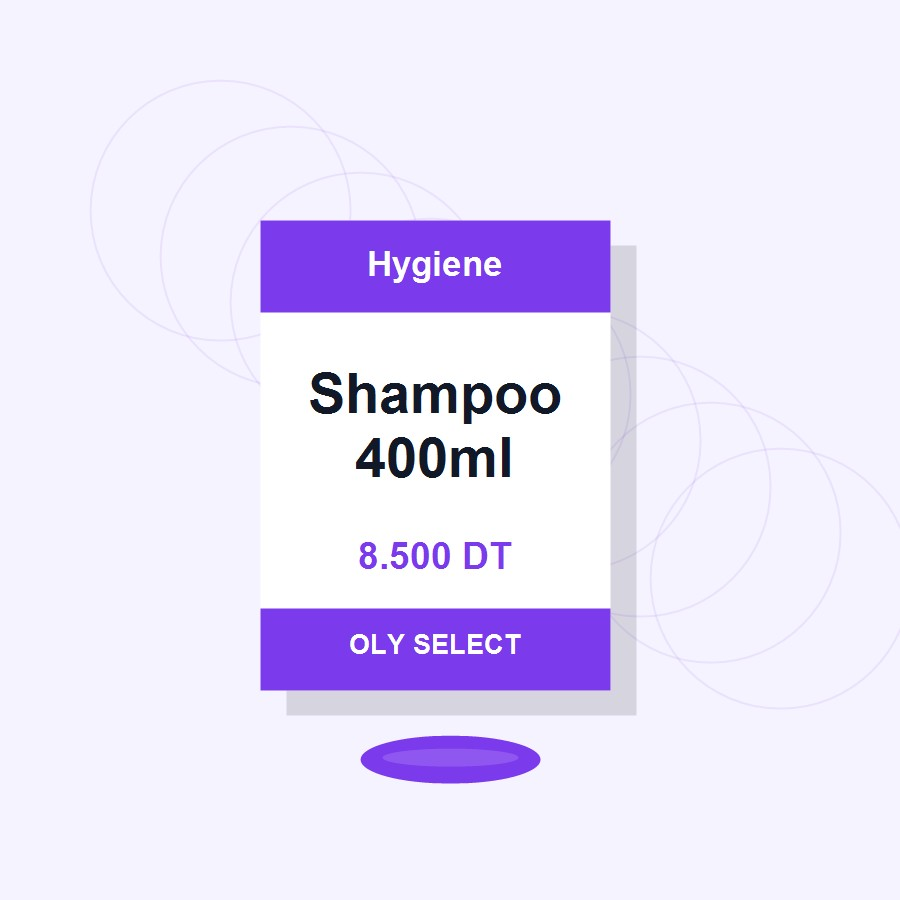
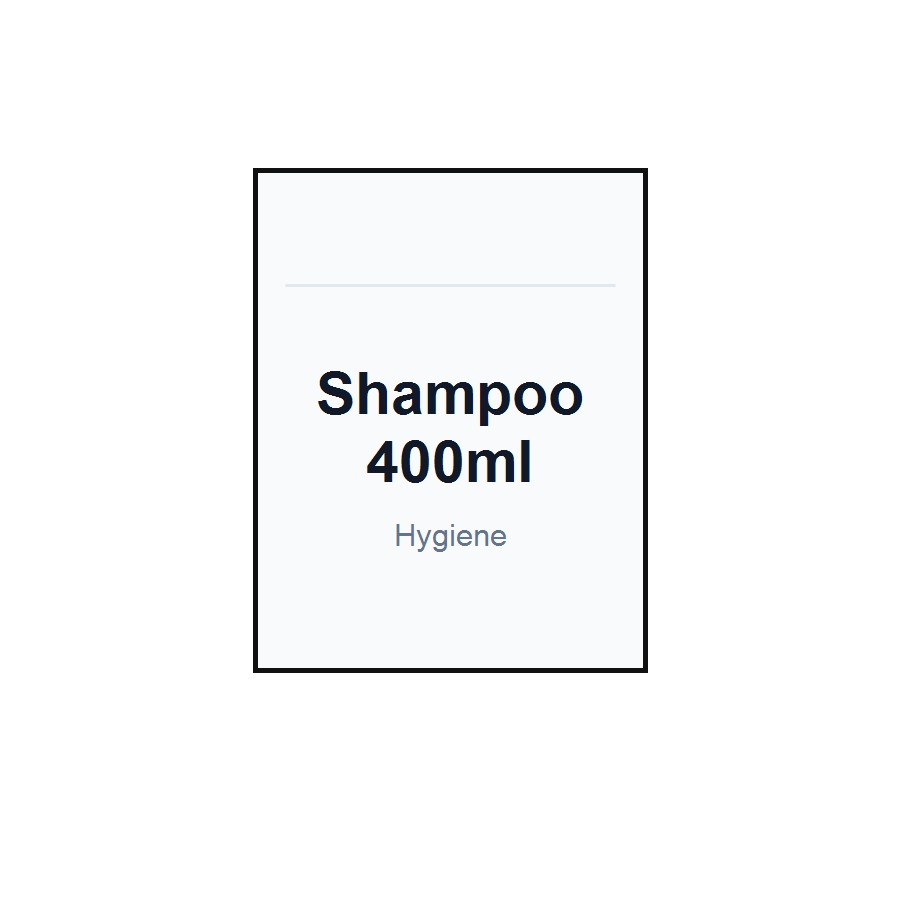
Simplify catalog product imagery

Changed region(s): [[0.28, 0.1867, 0.7778, 0.8711], [0.84, 0.4978, 0.8711, 0.5289], [0.8089, 0.4356, 0.84, 0.4667]]

diff --git a/src/app/page.tsx b/src/app/page.tsx
@@ -797,7 +797,7 @@ export default function Home() {
                 className="product-card group overflow-hidden rounded-2xl border border-slate-200 bg-white shadow-sm transition hover:-translate-y-1 hover:shadow-xl"
                 style={{ animationDelay: `${Math.min(index, 8) * 55}ms` }}
               >
-                <div className="product-photo relative grid aspect-[1.08] place-items-center" style={{ background: accent.gradient }}>
+                <div className="product-photo relative grid aspect-[1.08] place-items-center bg-white">
                   <span
                     className="absolute left-3 top-3 z-10 rounded-full bg-white/90 px-2.5 py-1 text-[11px] font-black uppercase shadow-sm backdrop-blur"
                     style={{ color: accent.text }}
@@ -805,14 +805,14 @@ export default function Home() {
                     {categoryName(product.category, language)}
                   </span>
                   <div
-                    className="grid h-full w-full place-items-center overflow-hidden text-4xl font-black transition duration-500 group-hover:scale-[1.04]"
+                    className="grid h-full w-full place-items-center overflow-hidden text-4xl font-black transition duration-300 group-hover:scale-[1.02]"
                     style={{ color: accent.text }}
                   >
                     {productImage(product) ? (
                       <img
                         src={productImage(product)}
                         alt={productName(product, language)}
-                        className="h-full w-full object-contain p-5 drop-shadow-xl"
+                        className="h-full w-full object-contain p-3"
                         loading="lazy"
                       />
                     ) : (

diff --git a/src/app/globals.css b/src/app/globals.css
@@ -101,19 +101,6 @@ textarea {
   animation: action-shine 760ms ease;
 }
 
-.product-photo::after {
-  content: "";
-  position: absolute;
-  inset: 0;
-  pointer-events: none;
-  background: linear-gradient(160deg, rgba(255, 255, 255, 0.55), transparent 45%, rgba(17, 17, 17, 0.04));
-  opacity: 0.7;
-}
-
-.product-card:hover .product-photo::after {
-  animation: photo-sheen 900ms ease;
-}
-
 @keyframes reveal {
   from {
     opacity: 0;
@@ -151,18 +138,6 @@ textarea {
   }
   to {
     transform: translateX(140%);
-  }
-}
-
-@keyframes photo-sheen {
-  from {
-    opacity: 0.35;
-  }
-  55% {
-    opacity: 0.95;
-  }
-  to {
-    opacity: 0.7;
   }
 }
 

diff --git a/public/products/SOURCES.md b/public/products/SOURCES.md
@@ -20,4 +20,4 @@ These images are storefront assets for the current demo catalog. Replace them wi
 
 Additional food product photos were sourced from Open Food Facts where available. Open Food Facts product images are provided by contributors and are generally available under Creative Commons Attribution-ShareAlike terms.
 
-For products without a reliable reusable photo source, the demo uses locally generated Oly Select packshot cards with the correct product name, category, and price. These are placeholders designed to keep the storefront polished until the store uploads its own POS product photos.
+For products without a reliable reusable photo source, the demo uses simple local catalog placeholders with the product name and category on a plain white background. These are placeholders designed to keep the storefront clean until the store uploads its own POS product photos.
